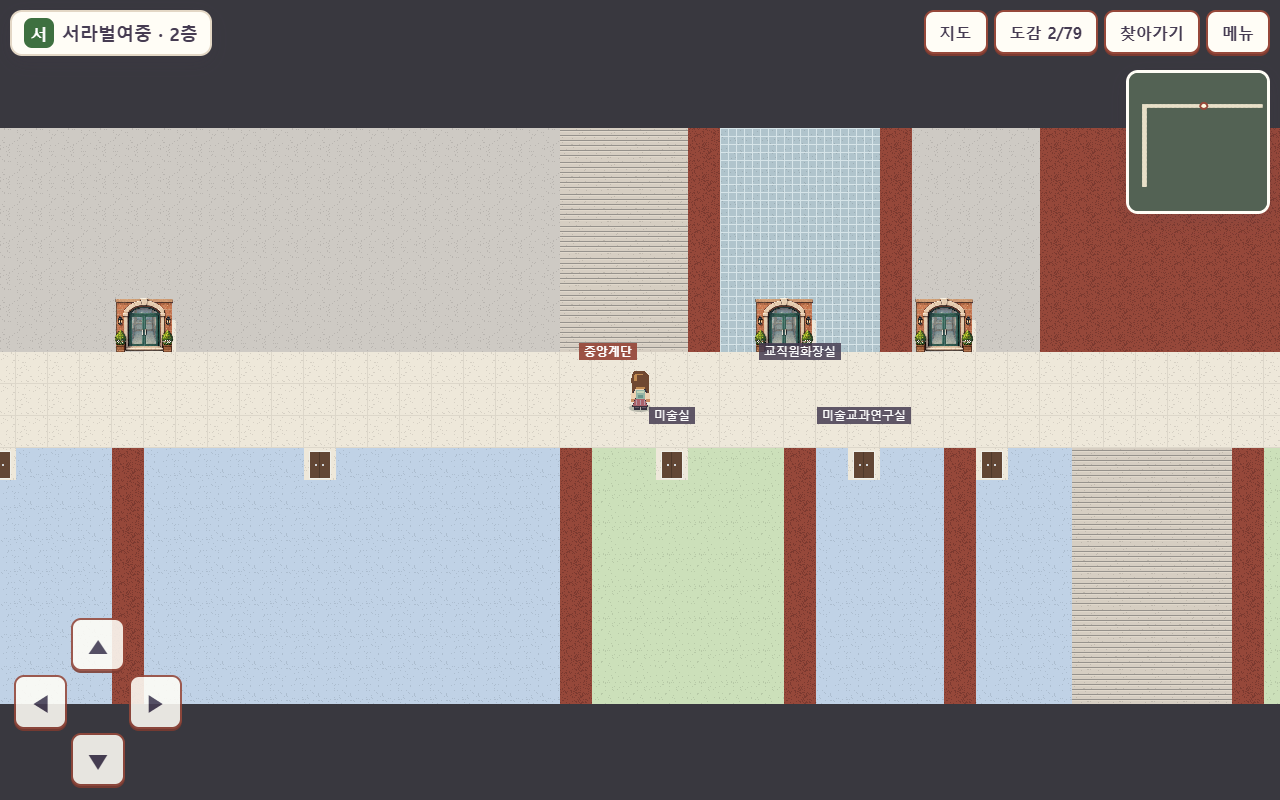
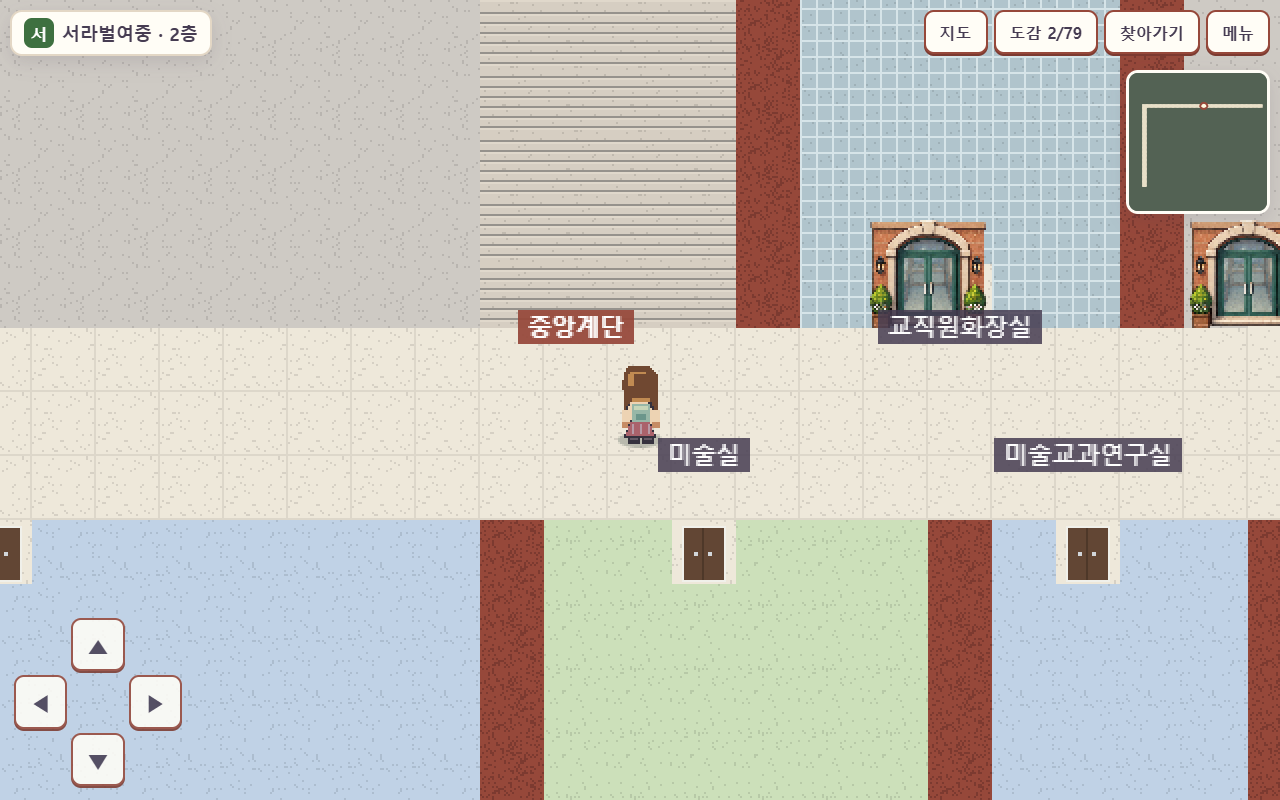
서라벌 탐방: 게임 화면 확대, 1분 무조작 시 학교 전체 지도, 본관 터치 → 1층

diff --git a/components/explore/js/mapview.js b/components/explore/js/mapview.js
@@ -30,13 +30,13 @@
 
   MV.show = function (opts) {
     opts = opts || {};
-    MV.open = true; MV.standalone = !!opts.standalone; MV.pin = opts.pin || null;
+    MV.open = true; MV.standalone = !!opts.standalone; MV.pin = opts.pin || null; MV.wing = null;
     U.$('mapview').hidden = false; U.$('mapClose').hidden = MV.standalone;
     U.$('routeToggle').checked = false; U.$('routeSteps').innerHTML = '';
     var tab = opts.tab != null ? opts.tab : (MV.pin ? MV.pin.floor : 1);
     MV.setTab(tab);
     if (opts.focus) MV.select(byId(opts.focus));
-    loop();
+    cancelAnimationFrame(raf); loop();
   };
   MV.close = function () {
     MV.open = false; U.$('mapview').hidden = true; cancelAnimationFrame(raf);
@@ -50,7 +50,7 @@
   };
   function byId(id) { for (var i = 0; i < D.places.length; i++) if (D.places[i].id === id) return D.places[i]; return null; }
   MV.byId = byId;
-  function loop() { blink += 1; if (MV.selected && blink % 20 === 0) render(); raf = requestAnimationFrame(loop); }
+  function loop() { blink += 1; if ((MV.selected || MV.wing) && blink % 20 === 0) render(); raf = requestAnimationFrame(loop); }
 
   /* ---------- layout & drawing ---------- */
   function fitScale(w, h) {
@@ -161,6 +161,14 @@
       var box = U.$('mapNumbers'); box.appendChild(U.el('b', null, '번호로 표시한 좁은 칸'));
       nums.forEach(function (it) { var d = U.el('div', null, it[0] + '. ' + it[1].label); d.onclick = function () { MV.select(it[1]); }; box.appendChild(d); });
     }
+    if (MV.wing && !MV.selected && MV.wing.floor === f) {
+      var bx0 = 1e9, by0 = 1e9, bx1 = -1e9, by1 = -1e9;
+      D.places.forEach(function (p) {
+        if (p.floor !== f || p.wing !== MV.wing.wing || !p.polygon) return;
+        bx0 = Math.min(bx0, p.polygon[0][0]); by0 = Math.min(by0, p.polygon[0][1]); bx1 = Math.max(bx1, p.polygon[2][0]); by1 = Math.max(by1, p.polygon[2][1]);
+      });
+      if (bx1 > bx0) { ctx.strokeStyle = blink % 40 < 20 ? '#96483a' : '#c08070'; ctx.lineWidth = 4; ctx.strokeRect(X(bx0) - 3, X(by0) - 3, X(bx1) - X(bx0) + 6, X(by1) - X(by0) + 6); }
+    }
     drawRoute(f, X);
     if (MV.pin && MV.pin.floor === f && MV.pin.m) pinAt(X(MV.pin.m[0]), X(MV.pin.m[1]), k);
   }
@@ -205,12 +213,36 @@
         var d = Math.hypot(view.px(p.tile[0] + 0.5) - x, view.py(p.tile[1]) - y);
         if (d < bd) { bd = d; hit = p; }
       });
+      if (!hit) {                                     // tapped a wing of the building -> its floor-1 plan
+        var areas = D.school.areas || [];
+        for (var i = 0; i < areas.length; i++) {
+          var poly = areas[i].outline.map(function (t) { return [view.px(t[0]), view.py(t[1])]; });
+          if (inside(poly, x, y)) { MV.showWing(areas[i]); return; }
+        }
+      }
     }
     if (hit) MV.select(hit);
   }
+  function inside(poly, x, y) {
+    var c = false;
+    for (var i = 0, j = poly.length - 1; i < poly.length; j = i++) {
+      var a = poly[i], b = poly[j];
+      if ((a[1] > y) !== (b[1] > y) && x < (b[0] - a[0]) * (y - a[1]) / (b[1] - a[1]) + a[0]) c = !c;
+    }
+    return c;
+  }
+  MV.showWing = function (area) {
+    MV.selected = null; MV.wing = area; MV.lastFloor = area.floor;
+    U.$('routeSteps').innerHTML = ''; MV.route = null;
+    MV.setTab(area.floor);
+    var box = U.$('mapInfo'); box.innerHTML = '';
+    box.appendChild(U.el('h3', null, area.name + ' ' + area.floor + '층'));
+    var n = D.places.filter(function (p) { return p.floor === area.floor && p.wing === area.wing && (p.kind === 'room' || p.kind === 'restroom') && p.visible; }).length;
+    box.appendChild(U.el('p', null, area.name + ' ' + area.floor + '층에는 실이 ' + n + '곳 있어요. 지도에서 실을 누르면 정보가 나와요. 다른 층은 위 탭에서 고르세요.'));
+  };
   MV.select = function (p) {
     if (!p) return;
-    MV.selected = p;
+    MV.selected = p; MV.wing = null;
     if (p.floor >= 1) MV.lastFloor = p.floor;
     if (MV.tab !== 'stack' && MV.tab !== p.floor) MV.tab = p.floor;
     MV.setTab(MV.tab);

diff --git a/components/explore/js/game.js b/components/explore/js/game.js
@@ -26,7 +26,19 @@
     });
     MV.onClose = function () { if (!U.$('play').hidden) E.paused = false; };
     updateCount(); titleNote();
+    // 1분 동안 아무 조작이 없으면 학교 전체 지도(교정)를 보여 준다
+    ['pointerdown', 'keydown', 'wheel', 'touchstart'].forEach(function (ev) { document.addEventListener(ev, function () { G.idle.last = Date.now(); }, true); });
+    setInterval(checkIdle, 1000);
   };
+  G.idle = { last: Date.now(), ms: 60000 };
+  function checkIdle() {
+    if (Date.now() - G.idle.last < G.idle.ms) return;
+    G.idle.last = Date.now();
+    if (MV.open) { if (MV.tab !== 0) MV.setTab(0); return; }
+    if (U.modalOpen()) U.closeModal();
+    if (!U.$('play').hidden) { E.paused = true; E.keys = {}; E.pad = null; E.path = []; MV.show({ pin: pinFromPlayer(), tab: 0 }); }
+    else MV.show({ pin: kioskPin(), tab: 0 });
+  }
 
   /* ---------- title ---------- */
   function buildAvatars() {

diff --git a/components/explore/js/engine.js b/components/explore/js/engine.js
@@ -19,7 +19,8 @@
   function resize() {
     if (!cv) return;
     var w = cv.clientWidth || window.innerWidth, h = cv.clientHeight || window.innerHeight;
-    E.zoom = Math.max(1, Math.floor(h / 560));
+    // close-up: at least 2x on normal screens (characters were too small at 1x); 3x on tall (1080p+) screens
+    E.zoom = h < 480 ? 1 : Math.max(2, Math.floor(h / 400));
     cv.width = Math.ceil(w / E.zoom); cv.height = Math.ceil(h / E.zoom);
     ctx.imageSmoothingEnabled = false;
   }

diff --git a/tools/build_explore_data.py b/tools/build_explore_data.py
@@ -243,6 +243,25 @@ def build():
     def w2t(x, y, z=0):
         return [round(so_t['x'] + pr['s'] * (x - pr['kx'] * y) * sc / 32, 2), round(so_t['y'] + pr['s'] * (pr['ky'] * y - z) * sc / 32, 2)]
     g = fp['geometry']
+    def hull(pts):
+        pts = sorted(set(map(tuple, pts)))
+        cross = lambda o, a, b: (a[0] - o[0]) * (b[1] - o[1]) - (a[1] - o[1]) * (b[0] - o[0])
+        lo, up = [], []
+        for p_ in pts:
+            while len(lo) >= 2 and cross(lo[-2], lo[-1], p_) <= 0: lo.pop()
+            lo.append(p_)
+        for p_ in reversed(pts):
+            while len(up) >= 2 and cross(up[-2], up[-1], p_) <= 0: up.pop()
+            up.append(p_)
+        return [list(p_) for p_ in lo[:-1] + up[:-1]]
+
+    def box_outline(x0, x1, y0, y1, h):   # screen outline (tile coords) of a building box, walls + roof
+        return hull([w2t(x, y, z) for x in (x0, x1) for y in (y0, y1) for z in (0, h)])
+    # tap areas on the 교정 map: the wing opens its floor-1 plan (본관 / 서쪽 동 / 목련관 is a place)
+    data['school']['areas'] = [
+        {'name': '본관', 'floor': 1, 'wing': 'main', 'outline': box_outline(g['D'], g['L1'], 0, g['D'], g['H4'])},
+        {'name': '서쪽 동', 'floor': 1, 'wing': 'west', 'outline': box_outline(0, g['D'], 0, g['D'] + g['L2'], g['H4'])},
+    ]
     data['school']['labels'] = [
         {'text': '본관', 'tile': w2t(g['D'] + 44, g['D'] * 0.5, g['H4'] + 1)},
         {'text': '서쪽 동', 'tile': w2t(g['D'] * 0.5, g['D'] + 22, g['H4'] + 1)},

diff --git a/docs/EXPLORE-REPORT.md b/docs/EXPLORE-REPORT.md
@@ -38,11 +38,13 @@
   - 방향키/WASD, Enter(말 걸기), M(지도)
   - 여러 손가락이 동시에 닿으면 첫 터치만 씁니다.
 - **미니맵:** ┌자 모양이고 내 위치만 표시합니다.
+- **확대:** 캐릭터가 잘 보이도록 게임 화면을 보통 화면에서 2배, 큰 화면(1200px 이상 높이)에서 3배로 확대합니다.
+- **자동 지도:** 1분 동안 아무 조작이 없으면 학교 전체 지도(교정 탭)로 넘어갑니다. 시작 화면에서도 같습니다(`game.js`의 `G.idle.ms`).
 - **저장:** 이 기기 localStorage에만 익명으로 저장합니다(도감, 최고 기록, 캐릭터). 메뉴에서 지울 수 있습니다.
 
 ## 4. 학교 전체 지도
 - **탭:** 교정 / 1층 / 2층 / 3층 / 4층 / 입체
-  - **교정:** 게임과 같은 그림을 school-footprint 좌표로 배치했습니다. 정문·후문은 화면 가장자리에 화살표 이름표로 표시합니다.
+  - **교정:** 게임과 같은 그림을 school-footprint 좌표로 배치했습니다. 정문·후문은 화면 가장자리에 화살표 이름표로 표시합니다. **본관이나 서쪽 동 건물을 누르면 1층 지도로 바뀌고** 그 동이 테두리로 깜빡입니다.
   - **층:** `floor-plan-N.png`(글자 없음) 위에 실 이름을 캔버스 글자로 얹습니다. 좁은 칸은 두 줄로 쓰거나 번호표 + 목록으로 대신합니다.
   - **입체:** 고른 층만 진하게, 나머지는 반투명으로 보입니다.
 - **검색:** 이름·별칭으로 찾습니다(예: "위클래스" → Wee클래스, "도서관" → 글빛도서관). 결과를 누르면 해당 층으로 바뀌고 그 실이 깜빡입니다.
